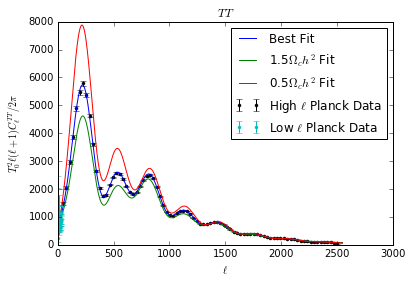
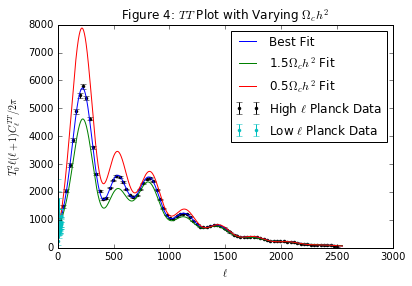
Updated images

diff --git a/finalPlotFunc.py b/finalPlotFunc.py
@@ -53,7 +53,7 @@ spectrum = (7.4311)*(1E12)*totCL[:,0]
 
 
 # Plot the data and camb model
-plt.title(r'$TT$')
+plt.title(r'Figure 1: Full $TT$ Plot')
 plt.xlabel(r'$\ell$')
 plt.ylabel(r'$T_0^2 \ell (\ell + 1) C_\ell^{TT} / 2\pi$')
 plt.errorbar(x, y, yerr=y_err, fmt='.', color='k', label=r'High $\ell$ Planck Data')
@@ -80,7 +80,7 @@ plt.errorbar(lx, ly, yerr=[y_down, y_up], fmt='o', label=r'Low $\ell$ Planck Dat
 lls = ls[2:len(x)+2]
 lspectrum = spectrum[2:len(x)+2]
 plt.plot(lls, lspectrum, label=r'Low $\ell$ fit')
-plt.title(r'$TT$ at low $\ell$')
+plt.title(r'Figure 2: $TT$ Plot at Low $\ell$')
 plt.xlabel(r'$10^\ell$')
 plt.ylabel(r'$T_0^2 \ell (\ell + 1) C_\ell^{TT} / 2\pi$')
 plt.xscale('log')

diff --git a/ombh2PlotFunc.py b/ombh2PlotFunc.py
@@ -53,7 +53,7 @@ spectrum = (7.4311)*(1E12)*totCL[:,0]
 
 
 # Plot the data and camb models
-plt.title(r'$TT$')
+plt.title(r'Figure 3: $TT$ Plot with Varying $\Omega_b h^2$')
 plt.xlabel(r'$\ell$')
 plt.ylabel(r'$T_0^2 \ell (\ell + 1) C_\ell^{TT} / 2\pi$')
 plt.errorbar(x, y, yerr=y_err, fmt='.', color='k', label=r'High $\ell$ Planck Data')

diff --git a/omch2PlotFunc.py b/omch2PlotFunc.py
@@ -53,7 +53,7 @@ spectrum = (7.4311)*(1E12)*totCL[:,0]
 
 
 # Plot the data and camb models
-plt.title(r'$TT$')
+plt.title(r'Figure 4: $TT$ Plot with Varying $\Omega_c h^2$')
 plt.xlabel(r'$\ell$')
 plt.ylabel(r'$T_0^2 \ell (\ell + 1) C_\ell^{TT} / 2\pi$')
 plt.errorbar(x, y, yerr=y_err, fmt='.', color='k', label=r'High $\ell$ Planck Data')
